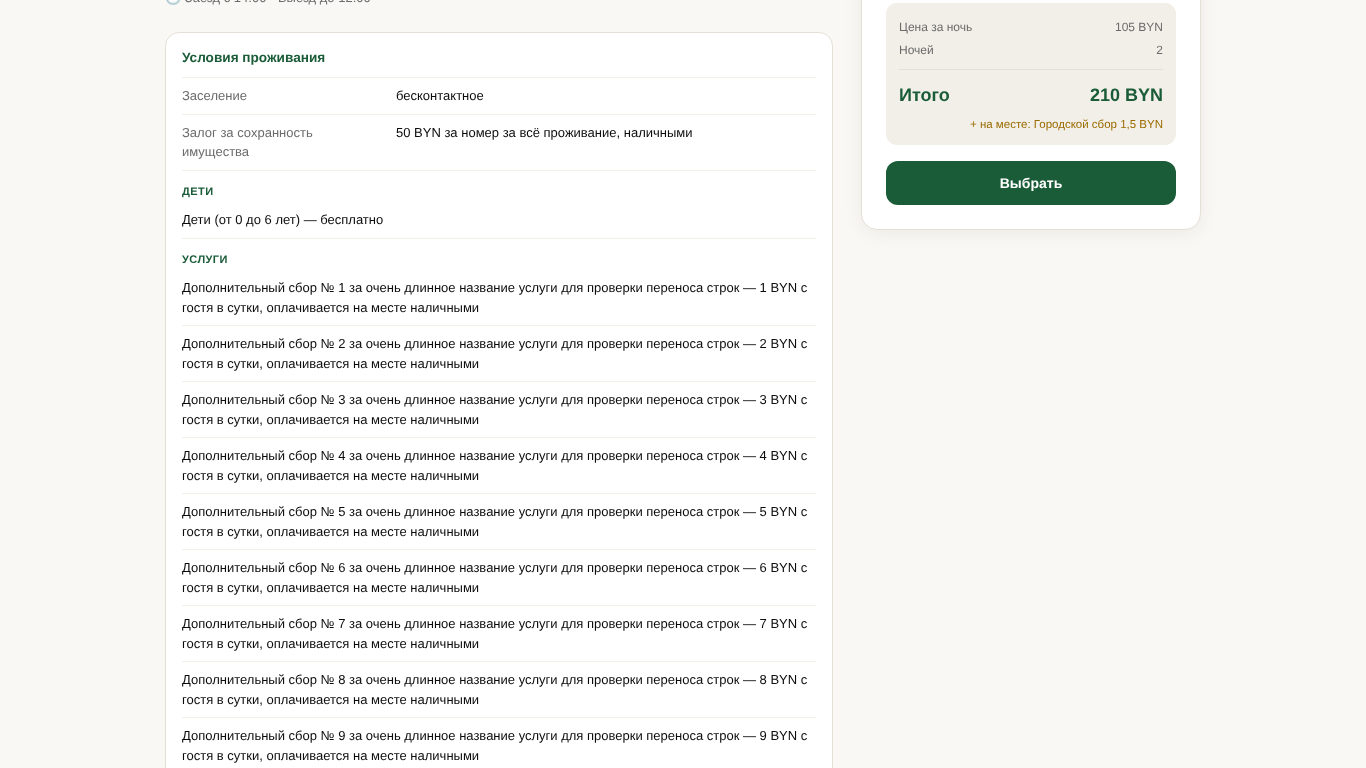
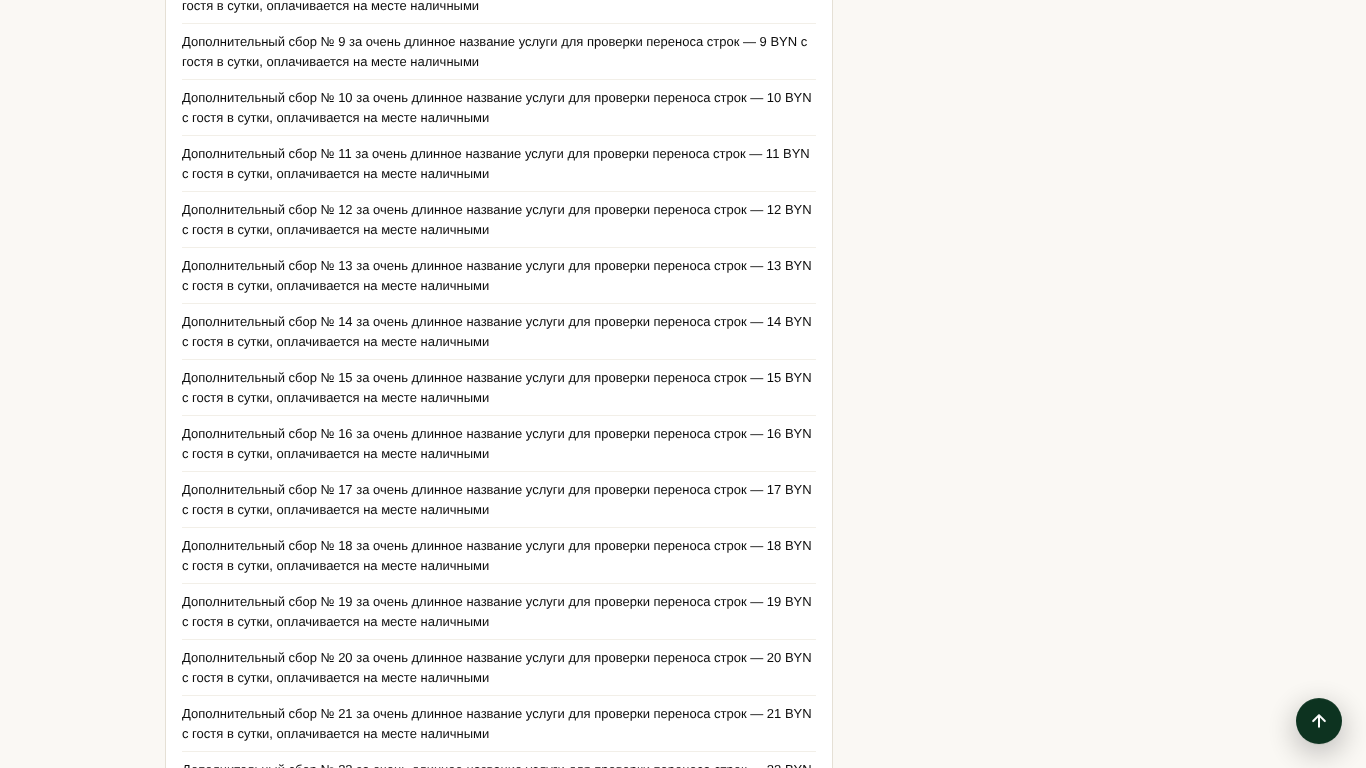
Условия проживания: порог сворачивания списка правил 8 → 15 строк
18.10: при 15 строках и меньше список показывается целиком, без кнопки; свыше 15 —
первые 15 и «Показать все условия». Тест обновлён под новый порог, добавлены граничные
случаи на 15 и 16 строк.

Claude-Session: https://claude.ai/code/session_01Kw4nh6QcxMosovTcEPWNzB

diff --git a/.github/ostrovok-test/rules_18_10.test.js b/.github/ostrovok-test/rules_18_10.test.js
@@ -146,12 +146,8 @@ async function run(browser, base, vp) {
     const { ctx, page, errors } = await open('', POLICY_RULES);
     check('ссылка на тестовый отель открывает объект', await page.evaluate(() => document.body.classList.contains('on-hotel') && curHotel && curHotel.id === 'ost_8473727'));
     const pol = page.locator('#hp-policy');
-    check('13 строк > 8: список свёрнут, кнопка «Показать все условия»', await pol.locator('.hp-pol-all').count() === 1);
-    check('в свёрнутом виде видно 8 строк правил', await pol.locator('.hp-pol-rule:visible').count() === 8);
-    await pol.scrollIntoViewIfNeeded();
-    await shotTo(page, '1_svernuto');
-    await press(pol.locator('.hp-pol-all'));
-    check('«Показать все условия» → видны все 13 строк, кнопка «Свернуть»', await pol.locator('.hp-pol-rule:visible').count() === 13 && /Свернуть/.test(await pol.locator('.hp-pol-all').innerText()));
+    check('13 строк ≤ 15: кнопки «Показать все условия» нет, скрытых строк нет', await pol.locator('.hp-pol-all').count() === 0 && await pol.locator('.hp-pol-x').count() === 0);
+    check('все 13 строк правил видны сразу', await pol.locator('.hp-pol-rule:visible').count() === 13);
     const txt = (await pol.innerText()).replace(/[ \t]+/g, ' ');
     const heads = await pol.locator('.hp-pol-grp').allInnerTexts();
     check('заголовки групп по порядку: Заезд и выезд, Дети, Питание, Услуги, Визы', JSON.stringify(heads.map(h => h.toLowerCase())) === JSON.stringify(['заезд и выезд', 'дети', 'питание', 'услуги', 'визы']), JSON.stringify(heads));
@@ -181,7 +177,7 @@ async function run(browser, base, vp) {
     allErrors.push(...errors); await ctx.close();
   }
 
-  // ── 2. короткий список (≤ 8 строк): без кнопки; все строки видны ──
+  // ── 2. короткий список (≤ 15 строк): без кнопки; все строки видны ──
   {
     const rules = RULES_ALL.filter(r => ['children', 'meal', 'visa', 'deposit', 'no_show'].includes(r.section));
     const { ctx, page, errors } = await open('', Object.assign({}, POLICY_OLD, { rules }));
@@ -202,11 +198,22 @@ async function run(browser, base, vp) {
     allErrors.push(...e.errors); await e.ctx.close();
   }
 
+  // ── 3б. граница порога: ровно 15 строк — без кнопки, 16 — свёрнуто до 15 ──
+  for (const cnt of [15, 16]) {
+    const rules = Array.from({ length: cnt }, (_, i) => ({ section: 'add_fee', label: 'Сбор ' + (i + 1), text: (i + 1) + ' BYN' }));
+    const { ctx, page, errors } = await open('', Object.assign({}, POLICY_OLD, { rules }));
+    const pol = page.locator('#hp-policy');
+    const btn = await pol.locator('.hp-pol-all').count(), vis = await pol.locator('.hp-pol-rule:visible').count();
+    check(cnt + ' строк: ' + (cnt === 15 ? 'без кнопки, видны все 15' : 'кнопка есть, видны 15 из 16'), cnt === 15 ? btn === 0 && vis === 15 : btn === 1 && vis === 15, 'кнопок ' + btn + ', видно ' + vis);
+    if (cnt === 16) { await press(pol.locator('.hp-pol-all')); check('16 строк: после «Показать все условия» видны все 16', await pol.locator('.hp-pol-rule:visible').count() === 16); }
+    allErrors.push(...errors); await ctx.close();
+  }
+
   // ── 4. длинный список (40 строк) на телефоне ──
   {
     const { ctx, page, errors } = await open('', Object.assign({}, POLICY_OLD, { rules: RULES_LONG }));
     const pol = page.locator('#hp-policy');
-    check('40 строк: свёрнуто до 8 (кнопка есть)', await pol.locator('.hp-pol-all').count() === 1 && await pol.locator('.hp-pol-rule:visible').count() === 8, String(await pol.locator('.hp-pol-rule:visible').count()));
+    check('40 строк: свёрнуто до 15 (кнопка есть)', await pol.locator('.hp-pol-all').count() === 1 && await pol.locator('.hp-pol-rule:visible').count() === 15, String(await pol.locator('.hp-pol-rule:visible').count()));
     check('в свёрнутом виде группа «Услуги» видна, пустых заголовков нет (скрытые группы не торчат)', await page.evaluate(() => Array.from(document.querySelectorAll('#hp-policy .hp-pol-grp')).filter(e => e.offsetParent !== null).length === 2));
     await pol.scrollIntoViewIfNeeded();
     await shotTo(page, '3_dlinnyj_svernut');
@@ -221,7 +228,7 @@ async function run(browser, base, vp) {
     check('кнопка достаточно высокая для пальца (≥ 32 px)', btnBox && btnBox.height >= 32, JSON.stringify(btnBox));
     await shotTo(page, '4_dlinnyj_razvernut');
     await press(pol.locator('.hp-pol-all'));
-    check('«Свернуть» возвращает 8 строк', await pol.locator('.hp-pol-rule:visible').count() === 8);
+    check('«Свернуть» возвращает 15 строк', await pol.locator('.hp-pol-rule:visible').count() === 15);
     allErrors.push(...errors); await ctx.close();
   }
 

diff --git a/index.html b/index.html
@@ -7808,9 +7808,9 @@ function hpPolicyRender(pol){
       buckets[gi].push(lab&&txt?lab+' — '+txt:(lab||txt));
     });
     var total=buckets.reduce(function(n,b){return n+b.length;},0);
-    // 18.10: длинный список (до 60 строк) на телефоне — первые 8 строк, остальные за «Показать все условия».
-    // Строки остаются в странице (скрыты стилем), так что текст не пропадает; если строк 8 и меньше — кнопки нет
-    var LIM=8, fold=total>LIM, n=0;
+    // 18.10: длинный список (до 60 строк) на телефоне — первые 15 строк, остальные за «Показать все условия».
+    // Строки остаются в странице (скрыты стилем), так что текст не пропадает; если строк 15 и меньше — кнопки нет
+    var LIM=15, fold=total>LIM, n=0;
     buckets.forEach(function(b,k){
       if(!b.length)return;
       rows.push('<div class="hp-pol-grp'+(fold&&n>=LIM?' hp-pol-x':'')+'">'+GRP[k].t+'</div>');
